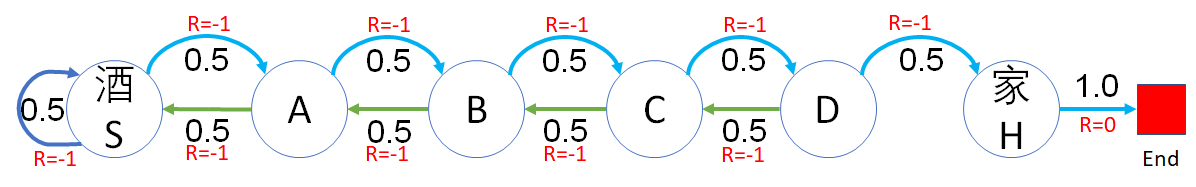
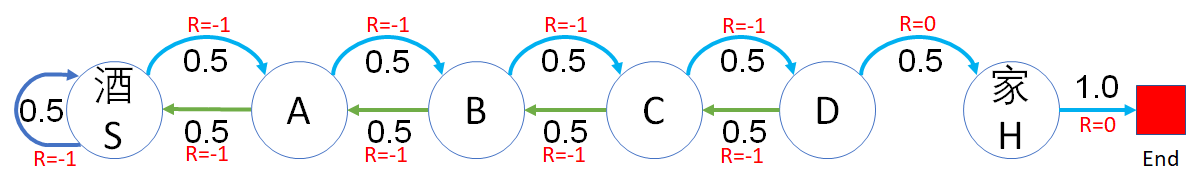
ll

diff --git a/基础教程/A7-强化学习/draft/50-安全驾驶问题的进阶 - 状态价值函数/src/RandomWalkerDataModel.py b/基础教程/A7-强化学习/draft/50-安全驾驶问题的进阶 - 状态价值函数/src/RandomWalkerDataModel.py
@@ -1,5 +1,7 @@
 import numpy as np
 from enum import Enum
+import tqdm
+import math
 
 class States(Enum):
     Start = 0
@@ -18,20 +20,64 @@ P = np.array(
         [0,   0,   0.5, 0,   0.5, 0,   0  ], # C
         [0,   0,   0,   0.5, 0,   0.5, 0  ], # D
         [0,   0,   0,   0,   0,   0,   1.0], # Home
-        [0,   0,   0,   0,   0,   0,   1  ], # end
+        [0,   0,   0,   0,   0,   0,   1.0], # end
 ])
 
 # 状态奖励值
-#     S, A, B, C, D, H, e
-R1 = [0, 0, 0, 0, 0, 1, 0]
-
-# 过程奖励值
+#     S,   A,  B,  C,  D, H, End
+R1 = [ 0,  0,  0,  0,  0, 1, 0]
 R2 = [-1, -1, -1, -1, -1, 0, 0]
 
+# 过程奖励值
+R3 = {
+    States.Start: {
+        States.Start:   -1,
+        States.A:       -1
+    },
+    States.A: {
+        States.Start:   -1,
+        States.B:       -1
+    },
+    States.B: {
+        States.A:       -1,
+        States.C:       -1
+    },
+    States.C: {
+        States.B:       -1,
+        States.D:       -1
+    },
+    States.D: {
+        States.C:       -1,
+        States.Home:    0
+    },
+    States.Home: {
+        States.End:     0
+    },
+}
+
+R3 = [
+    (-1)*0.5+(-1)*0.5,  # S
+    (-1)*0.5+(-1)*0.5,  # A
+    (-1)*0.5+(-1)*0.5,  # B
+    (-1)*0.5+(-1)*0.5,  # C
+    (-1)*0.5+(0)*0.5,   # D
+    0,                  # Home
+    0,                  # End
+]
+R4 = [
+    (-1)*0.5+(-1)*0.5,  # S
+    (-1)*0.5+(-1)*0.5,  # A
+    (-1)*0.5+(-1)*0.5,  # B
+    (-1)*0.5+(-1)*0.5,  # C
+    (-1)*0.5+(-1)*0.5,  # D
+    1*1.0,              # Home
+    0,                  # End
+]
+
 class DataModel(object):
-    def __init__(self):
+    def __init__(self, R):
         self.P = P                          # 状态转移矩阵
-        self.R = R1                         # 奖励
+        self.R = R                          # 奖励
         self.S = States                     # 状态集
         self.N = len(self.S)                # 状态数量
         self.end_states = [self.S.End]      # 终止状态集
@@ -45,6 +91,9 @@ class DataModel(object):
     def get_reward(self, s):
         return self.R[s.value]
 
+    def get_reward(self, s, s_next):
+        return self.R[s.value]
+
     # 根据转移概率前进一步，返回（下一个状态、即时奖励、是否为终止）
     def step(self, s):
         next_s = np.random.choice(self.S, p=self.P[s.value])
@@ -52,15 +101,80 @@ class DataModel(object):
 
 
 def Matrix(dataModel, gamma):
-    num_state = dataModel.P.shape[0]
     I = np.eye(dataModel.N) * (1+1e-7)
-    #I = np.eye(dataModel.num_states)
+    #I = np.eye(dataModel.N)
     tmp1 = I - gamma * dataModel.P
     tmp2 = np.linalg.inv(tmp1)
     vs = np.dot(tmp2, dataModel.R)
     return vs
 
+def print_V(V):
+    print(V)
+    vv = np.around(V,3)
+    for s in dataModel.S:
+        print(str.format("\t\t{0}:\t{1}", s.name, vv[s.value]))
+
+# 多次采样获得回报 G 的数学期望，即状态价值函数 V
+def Sampling(dataModel, start_state, episodes, gamma):
+    G_sum = 0  # 定义最终的返回值，G 的平均数
+    # 循环多幕
+    for episode in tqdm.trange(episodes):
+        # 由于使用了注重结果奖励方式，所以起始状态也有奖励，做为 G 的初始值
+        G = dataModel.get_reward(start_state)   
+        curr_s = start_state        # 把给定的起始状态作为当前状态
+        t = 1                       # 折扣因子
+        done = False                # 分幕结束标志
+        while (done is False):      # 本幕循环
+            # 根据当前状态和转移概率获得:下一个状态,奖励,是否到达终止状态
+            next_s, r, done = dataModel.step(curr_s)   
+            G += math.pow(gamma, t) * r
+            t += 1
+            curr_s = next_s
+        # end while
+        G_sum += G # 先暂时不计算平均值，而是简单地累加
+    # end for
+    V = G_sum / episodes   # 最后再一次性计算平均值，避免增加计算开销
+    return V
+
+# 过程奖励
+def Sampling2(dataModel, start_state, episodes, gamma):
+    G_sum = 0  # 定义最终的返回值，G 的平均数
+    # 循环多幕
+    for episode in tqdm.trange(episodes):
+        # 由于使用了注重结果奖励方式，所以起始状态也有奖励，做为 G 的初始值
+        G = dataModel.get_reward(start_state)   
+        curr_s = start_state        # 把给定的起始状态作为当前状态
+        t = 1                       # 折扣因子
+        done = False                # 分幕结束标志
+        while (done is False):      # 本幕循环
+            # 根据当前状态和转移概率获得:下一个状态,奖励,是否到达终止状态
+            next_s, r, done = dataModel.step(curr_s)   
+            G += math.pow(gamma, t) * r
+            t += 1
+            curr_s = next_s
+        # end while
+        G_sum += G # 先暂时不计算平均值，而是简单地累加
+    # end for
+    V = G_sum / episodes   # 最后再一次性计算平均值，避免增加计算开销
+    return V
+
 if __name__=="__main__":
-    dataModel = DataModel()
-    v = Matrix(dataModel, 1)
-    print(np.around(v,2))
+
+    # dataModel = DataModel(R2)
+    # for start_state in dataModel.S:    # 遍历状态集中的每个状态作为起始状态
+    #     v_s = Sampling(dataModel, start_state, 2000, 1)
+    #     print(start_state, v_s)
+    # exit(0)
+
+
+
+
+    Rs = {"状态奖励:值1":R1, "状态奖励:值2":R2, "过程奖励:值1":R3, "过程奖励:值2":R4}
+    for name,R in Rs.items():
+        print(str.format("{0}:{1}", name, R))
+        dataModel = DataModel(R)
+        gammas = [1, 0.9]
+        for gamma in gammas:
+            print("\tgamma =", gamma)
+            v = Matrix(dataModel, gamma)
+            print_V(v)

diff --git a/基础教程/A7-强化学习/draft/50-安全驾驶问题的进阶 - 状态价值函数/状态价值函数的理解.md b/基础教程/A7-强化学习/draft/50-安全驾驶问题的进阶 - 状态价值函数/状态价值函数的理解.md
@@ -4,17 +4,8 @@
 
 在醉汉回家的例子中，奖励函数可以有几种设计方式：
 
-1. 对状态奖励：只有到达家的状态奖励 +1，其它状态都是 0。这样可以达到的效果是，一旦智能体跌跌撞撞地达到了一次家的状态，可以得到 +1 的奖励，它就会尝到甜头并牢记，在后面的学习中会不断强化这种记忆和过程。
+1. 对状态奖励：
 
-2. 对过程奖励：每走一步都有 -1 的“奖励”，实际上是惩罚，实际上是鼓励智能体（一个还没有接受强化训练的智能体和醉汉没什么区别）尽快找到回家的路，最后累计的负值越小越好。
-
-
-
-<center>
-<img src="./img/RandomWalker-1.png">
-
-图 1 醉汉回家
-</center>
 
 ```Python
 class States(Enum):
@@ -23,8 +14,8 @@ class States(Enum):
     B = 2
     C = 3
     D = 4
-    Home = 6
-    End = 7
+    Home = 5
+    End = 6
 
 P = np.array(
     [  # S    A    B    C    D    H    end   
@@ -34,9 +25,21 @@ P = np.array(
         [0,   0,   0.5, 0,   0.5, 0,   0  ], # C
         [0,   0,   0,   0.5, 0,   0.5, 0  ], # D
         [0,   0,   0,   0,   0,   0,   1.0], # Home
-        [0,   0,   0,   0,   0,   0,   0  ], # end
+        [0,   0,   0,   0,   0,   0,   1.0], # end
 ])
 ```
+
+### 状态奖励方法
+
+#### 第一种情况
+
+只有到达家的状态奖励 +1，其它状态都是 0。这样可以达到的效果是，一旦智能体跌跌撞撞地达到了一次家的状态，可以得到 +1 的奖励，它就会尝到甜头并牢记，在后面的学习中会不断强化这种记忆和过程。奖励值如图 1 所示。
+
+<center>
+<img src="./img/RandomWalker-1.png">
+
+图 1 醉汉回家
+</center>
 
 ```Python
 # 状态奖励值
@@ -44,11 +47,62 @@ P = np.array(
 R1 = [0, 0, 0, 0, 0, 1, 0]
 ```
 
+结果
+
+|状态$\to$|S|A|B|C|D|H|E|
+|-|-|-|-|-|-|-|-|
+|$\gamma=1$|1.0|1.0|1.0|1.0|1.0|1.0|0.0|
+|$\gamma=0.9$|0.16|0.19|0.27|0.41|0.63|1.0|0.0|
+
+从结果可以看到，当折扣因子 $\gamma=1$ 时，无折扣，根据公式
+$$
+V(s)=\mathbb E [G_t|S_t=s]
+=\mathbb E [ R_{t+1}+\gamma R_{t+2}+\gamma^2 R_{t+3}+ \cdots + \gamma^{T-t-1} R_T]
+\tag{1}
+$$
+
+所有的状态函数值都会是最后到家的奖励值 $R_T=1$，也就无法区分各个状态的好坏了。但是当 $\gamma=0.9$ 时，由于折扣的存在，距离终止状态越近的状态，具有的状态函数值越大，这也是理所当然的。
+
+所以，折扣值的存在对于奖励机制很有用，当不能确定奖励值是否合理时，一定要令折扣值小于 1，否则没有研究价值。
+
+#### 第二种情况
+
+既然第一种奖励值设计有缺陷，我们把所有的奖励值都减 1，会不会是同样的效果呢？如图 2 所示。
+
 <center>
 <img src="./img/RandomWalker-2.png">
 
 图 2 醉汉回家
 </center>
+
+```
+# 状态奖励值
+#     S,   A,  B,  C,  D, H, End
+R2 = [-1, -1, -1, -1, -1, 0, 0]
+```
+
+结果
+
+表 2
+
+|状态$\to$|S|A|B|C|D|H|E|
+|-|-|-|-|-|-|-|-|
+|$\gamma=1$|-30|-28|-24|-18|-10|0.0|0.0|
+|$\gamma=0.9$|-8.4|-8.1|-7.3|-5.9|-3.7|0.0|0.0|
+
+情况发生了变化，状态值并不是在第一种情况的基础上普遍减 1，而是发生了显著的变化，这是因为 $R=-1$ 的不断累加使得远离终止状态的值变得非常小。
+
+有的读者可能会问：起始状态 S 的的状态值为什么不是 -5 而是 -30？因为根据式 1，状态函数值是 $G$ 的期望，$G$ 代表了状态变化序列，由于在每个状态上都有 0.5 的概率返回上一个状态，所以状态变化序列（即马尔科夫链）会变得非常曲折，就会让 -1 这个值累加得越来越大。
+
+当有折扣存在时，这种累加效果会减弱很多，所以当 $\gamma=0.9$ 时，各个状态的函数值的差别会变得比较平缓。
+
+### 过程奖励方法
+
+下面我们研究一下过程奖励方法对状态函数值的影响。
+
+#### 第一种情况
+
+假设每走一步都有 -1 的“奖励”，实际上是惩罚，意在鼓励智能体（一个还没有接受强化训练的智能体和醉汉没什么区别）尽快找到回家的路，最后累计的负值越小越好。如图 3 所示。
 
 <center>
 <img src="./img/RandomWalker-3.png">
@@ -56,3 +110,48 @@ R1 = [0, 0, 0, 0, 0, 1, 0]
 图 3 醉汉回家
 </center>
 
+
+
+```Python
+# 过程奖励值
+R3 = [
+    (-1)*0.5+(-1)*0.5,  # S
+    (-1)*0.5+(-1)*0.5,  # A
+    (-1)*0.5+(-1)*0.5,  # B
+    (-1)*0.5+(-1)*0.5,  # C
+    (-1)*0.5+(-1)*0.5,  # D
+    0*1.0,              # Home
+    0,                  # End
+]
+```
+
+|状态$\to$|S|A|B|C|D|H|E|
+|-|-|-|-|-|-|-|-|
+|$\gamma=1$|-30|-28|-24|-18|-10|0.0|0.0|
+|$\gamma=0.9$|-8.435|-8.088|-7.315|-5.946|-3.676|0.0|0.0|
+
+#### 值二
+
+<center>
+<img src="./img/RandomWalker-4.png">
+
+图 4 醉汉回家
+</center>
+
+```Python
+# 过程奖励值
+R4 = [
+    (-1)*0.5+(-1)*0.5,  # S
+    (-1)*0.5+(-1)*0.5,  # A
+    (-1)*0.5+(-1)*0.5,  # B
+    (-1)*0.5+(-1)*0.5,  # C
+    (-1)*0.5+(-1)*0.5,  # D
+    1*1.0,              # Home
+    0,                  # End
+]
+```
+
+|状态$\to$|S|A|B|C|D|H|E|
+|-|-|-|-|-|-|-|-|
+|$\gamma=1$|-29|-27|-23|-17|-9|0.0|0.0|
+|$\gamma=0.9$|-8.279|-7.897|-7.047|-5.54|-3.043|1.0|0.0|

diff --git a/基础教程/A7-强化学习/draft/40-安全驾驶问题 - 马尔可夫奖励过程/安全驾驶问题.md b/基础教程/A7-强化学习/draft/40-安全驾驶问题 - 马尔可夫奖励过程/安全驾驶问题.md
@@ -251,7 +251,7 @@ $$
 - 系数变化奖励
 - 中间难度起点奖励
 
-在此不再引申，有兴趣的读者请自行学习相关概念。
+在此不再深入讨论，有兴趣的读者请自行学习相关概念。
 
 但在实际工程中，奖励设计是一个深不见底的大坑，里面埋葬了很多工程师的大量时间。在大部分情况下，我们都要小心翼翼地不断调整参数，还要防止智能体投机取巧找到刷分技巧。听说的一些比较有意思的案例有：
 - 用强化学习模仿作画，结果智能体学会了白色大笔一挥，然后用小黑笔不断在画布上戳，以此刷分；
@@ -259,7 +259,7 @@ $$
 
 而在实际工程中，即使没有出现智能体刷分这样糟糕的情形，为了算法的效果，我们也需要对环境的奖励不断调优。特别是有关战斗AI，或者某种游戏的胜负，这样的场景中如果只用最终的结果作为奖励很可能太过于稀疏，导致最终训练效果不佳。而如果你为了解决这个问题开始针对具体问题设计奖励函数了，那么你接下来的很长一段时间都将在“训练-微调奖励函数-训练-微调奖励函数”这样的循环中度过。
 
-举一个简单的例子来初步理解奖励函数设计的概念。
+举一个简单的例子来初步理解奖励函数设计的原则，在后面讲到价值函数时，我们会做进一步的讨论。
 
 <center>
 <img src="./img/Reward-3.png" width="600">
